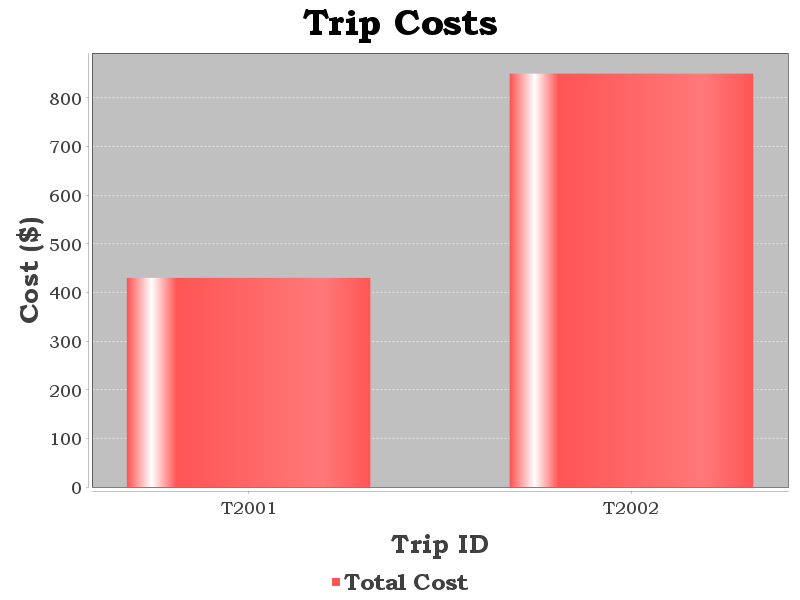
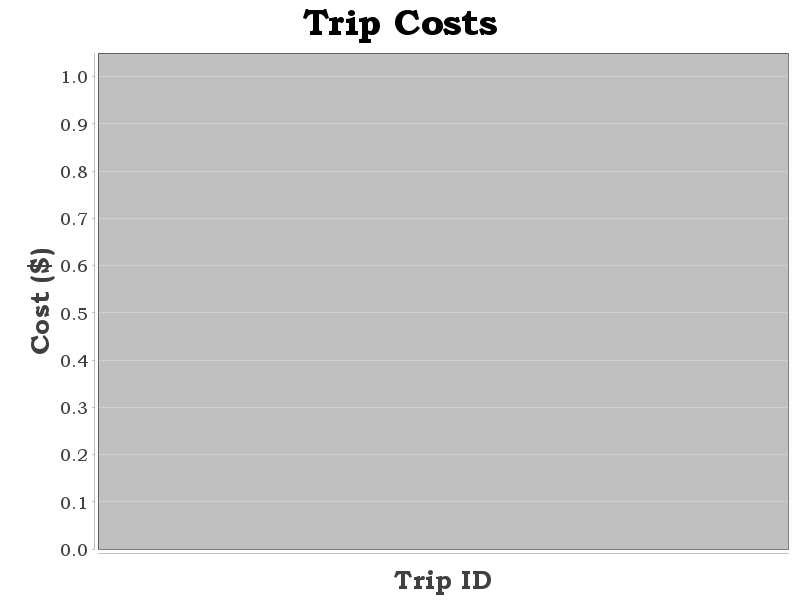
fixed dashboard

diff --git a/output/dashboard/styles.css b/output/dashboard/styles.css
@@ -1,0 +1,226 @@
+/* SmartTravel Pro A2 - Professional Dashboard CSS */
+/* COMP249 Winter 2026 - Copy to src/dashboard/styles.css */
+
+@import url('https://fonts.googleapis.com/css2?family=Cinzel:wght@400;700&family=Bookman+Old+Style:ital,wght@0,400..900;1,400..900&display=swap');
+
+* { 
+    margin: 0; 
+    padding: 0; 
+    box-sizing: border-box; 
+}
+
+body { 
+    font-family: 'Bookman Old Style', 'Palatino Linotype', 'Book Antiqua', Palatino, serif; 
+    line-height: 1.6; 
+    color: #2c3e50;
+    background: linear-gradient(135deg, #667eea 0%, #764ba2 50%, #f093fb 100%);
+    min-height: 100vh;
+    padding: 20px;
+}
+
+.container {
+    max-width: 1600px; 
+    margin: 0 auto; 
+    background: rgba(255,255,255,0.95);
+    border-radius: 25px;
+    box-shadow: 0 25px 60px rgba(0,0,0,0.2);
+    backdrop-filter: blur(20px);
+    overflow: hidden;
+}
+
+header {
+    background: linear-gradient(135deg, #2c3e50, #3498db);
+    color: white;
+    padding: 40px 30px;
+    text-align: center;
+}
+
+header h1 { 
+    font-family: 'Cinzel', serif; 
+    font-weight: 700; 
+    font-size: clamp(2.5em, 5vw, 3.8em); 
+    margin-bottom: 10px;
+    letter-spacing: 2px;
+    text-shadow: 3px 3px 8px rgba(0,0,0,0.5);
+}
+
+header p { 
+    font-size: 1.4em; 
+    opacity: 0.95; 
+    font-style: italic;
+}
+
+.data-section {
+	font-size: 1.2em;
+    padding: 40px 30px;
+    margin: 0 30px 30px;
+    background: white;
+    border-radius: 20px;
+    box-shadow: 0 10px 30px rgba(0,0,0,0.08);
+}
+
+.data-section h2 {
+	font-size: 1.3em;
+    font-family: 'Cinzel', serif;
+    font-weight: 700;
+    font-size: clamp(1.8em, 4vw, 2.2em);
+    color: #2c3e50;
+    margin-bottom: 25px;
+    text-align: center;
+}
+
+table {
+    width: 60%;
+	margin-left: auto;
+    margin-right: auto;
+    border-collapse: collapse;
+    margin-top: 20px;
+    background: white;
+    border-radius: 15px;
+    overflow: hidden;
+    box-shadow: 0 10px 35px rgba(0,0,0,0.1);
+    font-size: 0.95em;
+}
+
+th {
+    background: linear-gradient(135deg, #667eea, #764ba2);
+    color: white;
+    padding: 18px 20px;
+    text-align: center;
+    font-weight: 700;
+    letter-spacing: 0.5px;
+	font-size: 1.4em;
+}
+
+td {
+    padding: 16px 20px;
+    border-bottom: 1px solid #f1f3f4;
+    transition: background 0.2s ease;
+	text-align: center;
+}
+
+tr:hover td {
+    background: linear-gradient(90deg, #f8f9fa, #e9ecef);
+}
+
+tr:nth-child(even) {
+    background: #fafbfc;
+}
+
+.charts-section {
+    padding: 50px 30px;
+    margin: 0 30px 40px;
+    background: white;
+    border-radius: 25px;
+    box-shadow: 0 15px 50px rgba(0,0,0,0.1);
+    text-align: center;
+}
+
+.charts-section h2 {
+    font-family: 'Cinzel', serif;
+    font-size: clamp(2em, 4vw, 2.5em);
+    color: #2c3e50;
+    margin-bottom: 35px;
+}
+
+.chart-grid {
+    display: grid;
+    grid-template-columns: repeat(auto-fit, minmax(420px, 1fr));
+    gap: 35px;
+    margin-top: 30px;
+}
+
+.chart-card {
+    background: linear-gradient(135deg, #f8f9fa, #e9ecef);
+    padding: 30px;
+    border-radius: 25px;
+    box-shadow: 0 20px 60px rgba(0,0,0,0.15);
+    transition: all 0.3s ease;
+    border: 1px solid rgba(255,255,255,0.5);
+}
+
+.chart-card:hover {
+    transform: translateY(-10px);
+    box-shadow: 0 30px 80px rgba(0,0,0,0.25);
+}
+
+.chart-card img {
+    max-width: 100%;
+    height: auto;
+    border-radius: 18px;
+    box-shadow: 0 15px 45px rgba(0,0,0,0.2);
+}
+
+.chart-card figcaption {
+    margin-top: 20px;
+    font-weight: 700;
+    color: #495057;
+    font-size: 1.3em;
+    font-style: italic;
+}
+
+.stats-section {
+    padding: 50px 40px;
+    background: linear-gradient(135deg, #667eea, #764ba2);
+    color: white;
+    text-align: center;
+    margin: 0 30px 40px;
+    border-radius: 25px;
+}
+
+.stats-section h2 {
+    font-family: 'Cinzel', serif;
+    font-size: clamp(2.2em, 5vw, 2.8em);
+    margin-bottom: 30px;
+    text-shadow: 2px 2px 4px rgba(0,0,0,0.3);
+}
+
+.stat-grid {
+    display: grid;
+    grid-template-columns: repeat(auto-fit, minmax(250px, 1fr));
+    gap: 40px;
+}
+
+.stat-item {
+    background: rgba(255,255,255,0.15);
+    padding: 30px;
+    border-radius: 20px;
+    backdrop-filter: blur(10px);
+}
+
+.stat-label {
+    font-size: 1.4em;
+    opacity: 0.9;
+    margin-bottom: 10px;
+    font-weight: 900;
+    display: block;
+	color: #00FF00;
+}
+
+.stat-value {
+    font-size: 1.4em;
+    font-weight: 700;
+    color: #fff;
+    text-shadow: 1px 1px 3px rgba(0,0,0,0.3);
+}
+
+/* Animations */
+@keyframes fadeInUp {
+    from { opacity: 0; transform: translateY(30px); }
+    to { opacity: 1; transform: translateY(0); }
+}
+
+.data-section, .charts-section, .stats-section {
+    animation: fadeInUp 0.8s ease-out;
+}
+
+/* Responsive */
+@media (max-width: 1200px) {
+    .chart-grid { grid-template-columns: repeat(auto-fit, minmax(350px, 1fr)); }
+}
+
+@media (max-width: 768px) {
+    .chart-grid { grid-template-columns: 1fr; }
+    body { padding: 10px; }
+    .data-section, .stats-section { margin: 0 10px 20px; padding: 25px 20px; }
+}

diff --git a/output/dashboard/dashboard.html b/output/dashboard/dashboard.html
@@ -10,45 +10,25 @@
     <div class='container'>
         <header>
             <h1>SmartTravel Dashboard</h1>
-            <p>A2: File I/O + Exceptions | 1 Clients | 2 Trips</p>
+            <p>A2: File I/O + Exceptions | 0 Clients | 0 Trips</p>
         </header>
         <section class='data-section'>
-            <h2> Clients (1)</h2>
+            <h2> Clients (0)</h2>
             <table>
                 <thead>
                     <tr><th>ID</th><th>Name</th><th>Email</th><th>Total Spent ($)</th></tr>
                 </thead>
                 <tbody>
-                    <tr>
-                        <td><strong>C1001</strong></td>
-                        <td>Dar SJ</td>
-                        <td>[email redacted]</td>
-                        <td style='font-weight: bold; color: #388e3c;'>0.00</td>
-                    </tr>
                 </tbody>
             </table>
         </section>
         <section class='data-section'>
-            <h2> Trips (2)</h2>
+            <h2> Trips (0)</h2>
             <table>
                 <thead>
                     <tr><th>ID</th><th>Client</th><th>Destination</th><th>Days</th><th>Price</th></tr>
                 </thead>
                 <tbody>
-                    <tr>
-                        <td><strong>T2001</strong></td>
-                        <td>C1001</td>
-                        <td>hAITI</td>
-                        <td>3</td>
-                        <td>$430.00</td>
-                    </tr>
-                    <tr>
-                        <td><strong>T2002</strong></td>
-                        <td>C1001</td>
-                        <td>PortPrince</td>
-                        <td>6</td>
-                        <td>$850.00</td>
-                    </tr>
                 </tbody>
             </table>
         </section>
@@ -70,25 +50,7 @@
             </div>
         </section>
         <section class='stats-section'>
-            <h2>Quick Stats (2 Trips)</h2>
-            <div class='stat-grid'>
-                <div class='stat-item'>
-                    <span class='stat-label'>Avg Trip Cost</span>
-                    <span class='stat-value'>$640</span>
-                </div>
-                <div class='stat-item'>
-                    <span class='stat-label'>Avg Duration</span>
-                    <span class='stat-value'>4.5 days</span>
-                </div>
-                <div class='stat-item'>
-                    <span class='stat-label'>Total Revenue</span>
-                    <span class='stat-value'>$1,280</span>
-                </div>
-                <div class='stat-item'>
-                    <span class='stat-label'>Most Visited</span>
-                    <span class='stat-value'>hAITI<br><small>(1 trips)</small></span>
-                </div>
-            </div>
+            <h2>No Trip Data</h2>
         </section>
     </div>
 </body>

diff --git a/src/driver/SmartTravelDriver.java b/src/driver/SmartTravelDriver.java
@@ -55,15 +55,12 @@ public class SmartTravelDriver {
 		System.out.println("=====================================\n");
 
 		// Prompts the user for the execution mode
-		System.out.println("Please, choose an option:");
-		System.out.println("1. Predefined testing scenario");
-		System.out.println("2. Menu interface");
+		System.out.println("Press 1 to open the menu interface.");
+		System.out.println("1. Menu interface");
 		System.out.print("Enter your choice: ");
 		int choice = input.nextInt();
 
-		if (choice == 1) {
-			predefinedScenario();
-		} else if (choice == 2) {
+		 if (choice == 1) {
 			menuMode();
 		} else {
 			System.out.print("\nInvalid choice, the program will now close.");